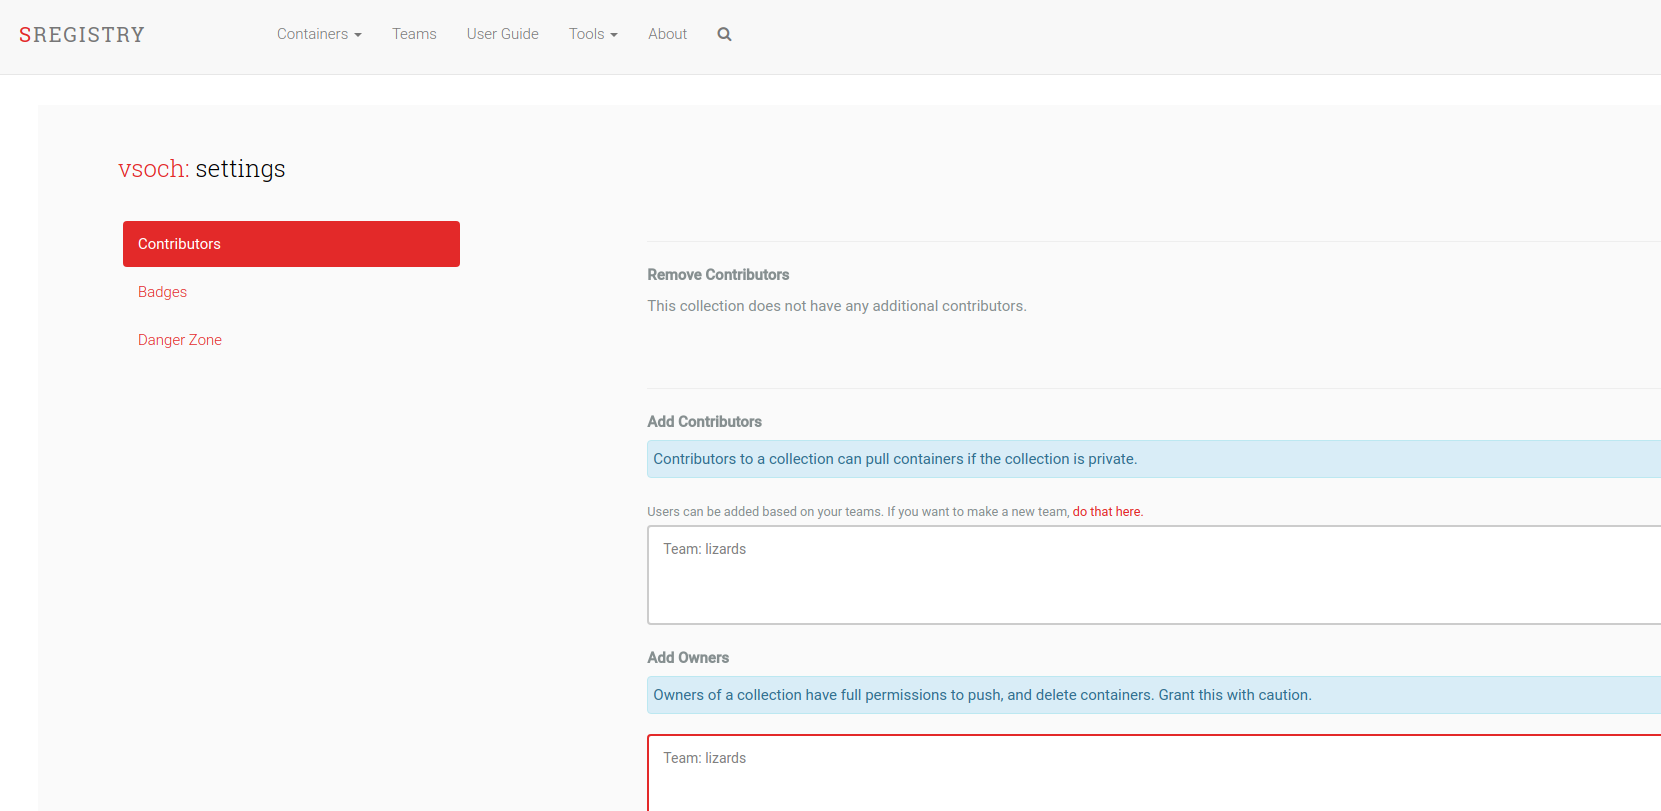
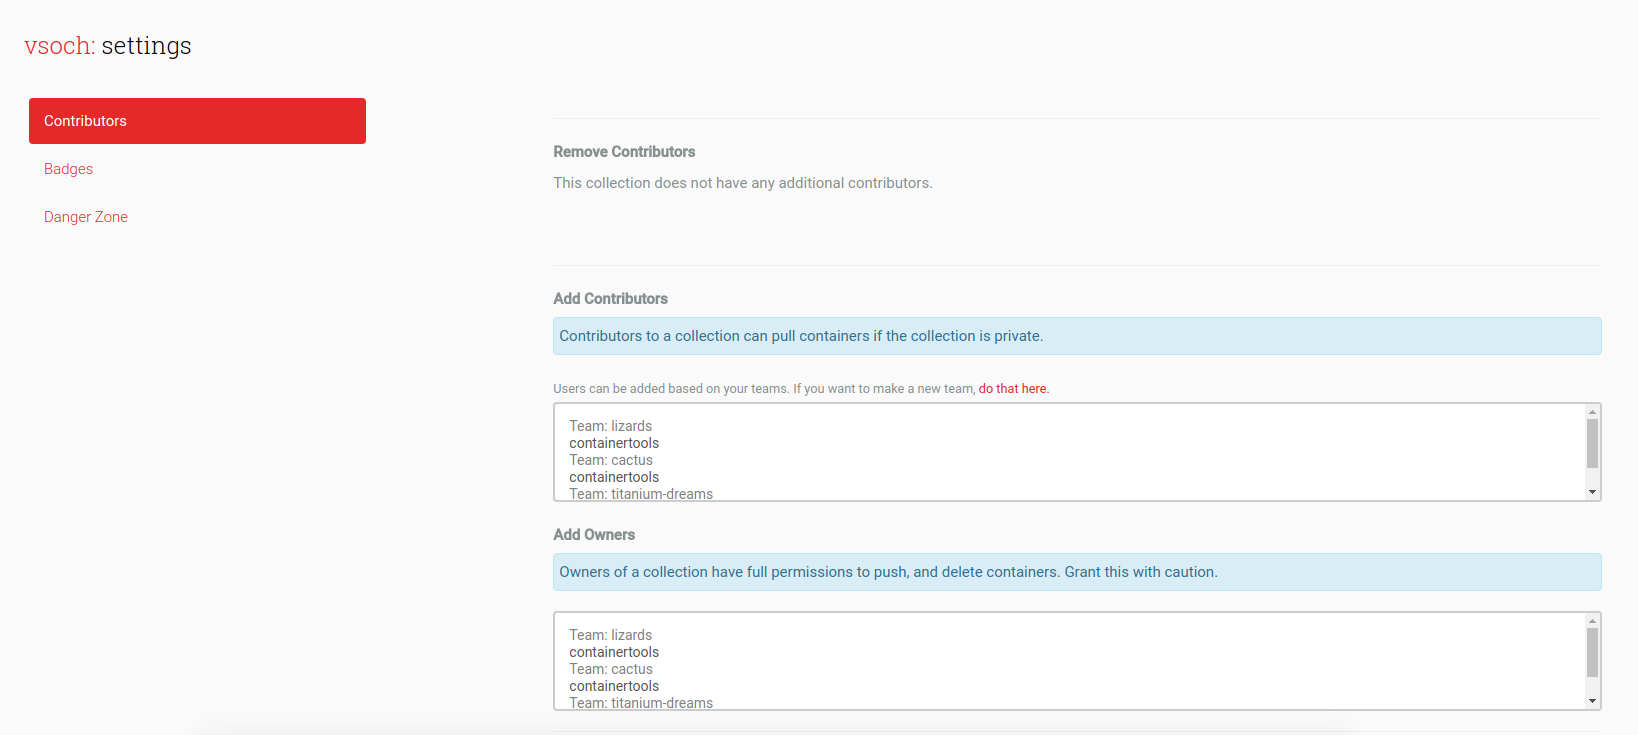
fixing up view to add/remove contributors and collections

diff --git a/shub/apps/main/templates/collections/_collection_settings_users.html b/shub/apps/main/templates/collections/_collection_settings_users.html
@@ -46,9 +46,7 @@
             <select id="remove_contributors" 
                     name="remove_contributors" 
                     class="form-control"
-                    style="margin-bottom:20px;" multiple>
-                
-                <option>--</option> 
+                    style="margin-bottom:20px;" multiple>                
                 {% for current in collection.contributors.all %}
                 <option value="{{ current.id }}">{{ current.username }}</option>
                 {% endfor %}
@@ -57,6 +55,24 @@
             {% else %}
             <p>This collection does not have any additional contributors.</p><br>
             {% endif %}
+
+            <hr>
+
+            <!-- Owners -->
+            {% if collection.owners.count > 1 %}
+            <label for="remove_owners">Remove Owners</label>
+            <select id="remove_owners" 
+                    name="remove_owners" 
+                    class="form-control"
+                    style="margin-bottom:20px;" multiple>
+                
+            {% for current in collection.owners.all %}
+            <option value="{{ current.id }}">{{ current.username }}</option>
+            {% endfor %}
+            </select>
+            {% else %}
+            <p>A collection must have at least one owner.</p><br>
+            {% endif %}{% endif %}
 
             <hr>
 
@@ -105,28 +121,7 @@
             {% endif %}
 
             <hr>
-
-                <!-- Owners -->
-                {% if collection.owners.count > 1 %}
-                   <label for="remove_owners">Remove Owners</label>
-                   <select id="remove_owners" 
-                           name="remove_owners" 
-                           class="form-control"
-                           style="margin-bottom:20px;" multiple>
-                
-                   <option>--</option> 
-                   {% for current in collection.owners.all %}
-                   <option value="{{ current.id }}">{{ current.username }}</option>
-                   {% endfor %}
-
-                   </select>
-                   {% else %}
-                   <p>A collection must have at least one owner.</p><br>
-                   {% endif %}
-            {% endif %}
-
-
-            <input class="btn btn-primary" type="submit" value="Save" style="margin-top:50px">
+            <input class="btn btn-primary" type="submit" value="Save" style="margin-top:15px">
 
         </form>
 

diff --git a/shub/apps/base/templates/base/navigation.html b/shub/apps/base/templates/base/navigation.html
@@ -9,10 +9,12 @@
             <!-- Containers -->
             <li class="dropdown">
               <a href="#" class="dropdown-toggle" data-toggle="dropdown" role="button" aria-haspopup="true" aria-expanded="false">
-              Containers
+              Collections
               <span class="caret"></span></a>
               <ul class="dropdown-menu">
-                <li><a href="{% url 'collections' %}">Collections</a></li>
+                <li><a href="{% url 'collections' %}">All Collections</a></li>
+                <li><a href="{% url 'my_collections' %}">My Collections</a></li>
+                <li role="separator" class="divider"></li>
                 <li><a href="{% url 'all_labels' %}">Labels</a></li>
                 <li><a href="{% url 'collection_stars' %}">Rankings</a></li>
                 <li><a href="{% url 'all_tags' %}">Topic Tags</a></li>
@@ -31,8 +33,8 @@
                 <li><a href="{% url 'containers_treemap' %}">Container Size Treemap</a></li>
                 <li role="separator" class="divider"></li>
                 <li><a href="https://singularityhub.github.io/sregistry-cli" target="_blank">Install Client</a></li>
+                <li><a href="https://singularityhub.github.io/" target="_blank">Community Tools</a></li>
                 <li><a href="https://github.com/singularityhub/singularityhub.github.io/issues/new" target="_blank">Get Help</a></li>
-               <li><a href="https://singularityhub.github.io/" target="_blank">Singularity Hub Tools</a></li>
               </ul>
             </li>
 
@@ -45,8 +47,12 @@
           <ul class="nav navbar-nav navbar-right" style="margin-right:20px">
             {% if request.user.is_authenticated %}
             <li class="dropdown">
-              <a href="#" class="dropdown-toggle" data-toggle="dropdown" role="button" aria-haspopup="true" aria-expanded="false">{{ request.user.username }}
- <span class="caret"></span></a>
+              <a href="#" class="dropdown-toggle" 
+                          data-toggle="dropdown" 
+                          role="button" 
+                          aria-haspopup="true" 
+                          aria-expanded="false">{{ request.user.username }}
+              <span class="caret"></span></a>
               <ul class="dropdown-menu">
                 <li><a href="{% url 'my_collections' %}">Containers</a></li>
                 <li role="separator" class="divider"></li>

diff --git a/shub/apps/main/templates/collections/all_collections.html b/shub/apps/main/templates/collections/all_collections.html
@@ -1,6 +1,7 @@
 {% extends "base/base.html" %}
 {% load crispy_forms_tags %}
 {% load staticfiles %}
+{% load gravatar %}
 
 {% block css %}
 <link rel="stylesheet" href="{% static "css/material-table.css"%}">
@@ -18,9 +19,13 @@ span.even { background: rgba(91, 192, 222, 0.32); }
     <div class="col-md-6">
         <div class="card" style="padding:20px">
             <div class="header" style="padding-bottom:10px">
-                   <h3 class="title">
-                   <img src="{% static 'img/robot_package.png' %}" width="160px" style="position:relative;top:-5px;border-radius:35px; padding-right:10px;margin-right:10px"/>
-                   {{ page_title }}</h3>
+                   <h3 class="title">{% if my_collections %}
+                   {% gravatar user.email 90 %} <span style="padding-top:20px;padding-left:25px">My Collections</span>
+                    {% else %}
+                   <img src="{% static 'img/robot_package.png' %}" 
+                        width="160px" 
+                        style="position:relative;top:-5px;border-radius:35px; padding-right:10px;margin-right:10px"/>Collections
+                   {% endif %}</h3>
             </div>
         </div>    
     </div>

diff --git a/shub/apps/main/views/collections.py b/shub/apps/main/views/collections.py
@@ -31,6 +31,7 @@ from django.shortcuts import (
     render, 
     redirect
 )
+from django.db.models import Q
 from django.http.response import Http404
 from django.contrib.auth.decorators import login_required
 from django.contrib import messages
@@ -85,51 +86,30 @@ def all_collections(request):
     # Get information about if they have storage, and repo access
     context = validate_credentials(user=request.user)
     context["collections"] = collections
-    context['page_title'] = "Container Collections"
 
     return render(request, 'collections/all_collections.html', context)
-
-
-def user_collections(request, uid):
-    '''this view will provide a list of user collections.
-
-       Parameters
-       ==========
-       uid: the user id to look up
-
-    '''
-    try:
-        user = User.objects.get(id=uid)
-    except:
-        messages.info(request,"This user does not exist.")
-        return redirect('collections')
-
-        
-    collections = Collection.objects.filter(owner=user)
-
-    # Get information about if they have storage, and repo access
-    context = validate_credentials(user=request.user)
-    context["collections"] = collections
-    context['page_title'] = "User %s Collections" %user.username
-    return render(request, 'collections/all_collections.html', context)
-
 
 
 @login_required
 def my_collections(request):
     '''this view will provide a list of collections for the logged in user
     '''
-    collections = Collection.objects.filter(owner=request.user)
+    collections = Collection.objects.filter(Q(owners=request.user) | 
+                                            Q(contributors=request.user))
 
     # Get information about if they have storage, and repo access
     context = validate_credentials(user=request.user)
     context["collections"] = collections
-    context["page_title"] = "My Container Collections"
+    context["my_collections"] = True
     return render(request, 'collections/all_collections.html', context)
 
 
-def view_collection(request,cid):
+def view_collection(request, cid):
     '''View container build details (all container builds for a repo)
+
+       Parameters
+       ==========
+       cid: the collection id
  
     '''
 
@@ -362,6 +342,41 @@ def make_collection_public(request,cid):
 # Contributors #################################################################
 ################################################################################
 
+def _edit_contributors(userids, collection, add_user=True, level="contributor"):
+    '''a general function to add a single (or list) of users to a collection,
+       given that each user exists.
+ 
+       Parameters
+       ==========
+       userids: a string list, or single string of a user id
+       add_user: if True, perform add on the collection. If False, remove.
+       level: one of contributor or owner.
+
+    '''
+    from shub.apps.users.utils import get_user
+
+    if not isinstance(userids, list):
+        userids = [userids]
+
+    for userid in userids:
+        user = get_user(userid)
+
+        if user is not None:
+
+            # Are we adding an owner or a contributor?
+            func = collection.owners
+            if level == "contributor":
+                func = collection.contributors
+
+            # Are we adding or removing?
+            if add_user is True:
+                func.add(user)
+            else:
+                func.remove(user)
+            collection.save()
+
+    return collection
+
 
 @login_required
 def edit_contributors(request, cid):
@@ -369,6 +384,7 @@ def edit_contributors(request, cid):
        for a collection. Only owners are allowed to do this, and can only
        see individuals in their teams.
     '''
+    
     collection = get_collection(cid)
 
     # Who are current contributors?
@@ -386,10 +402,24 @@ def edit_contributors(request, cid):
             remove_contribs = request.POST.get('remove_contributors')
             add_owners = request.POST.get('add_owners')
             remove_owners = request.POST.get('remove_owners')
-            res = {'remove_owners': remove_owners,
-                   'add_contribts': add_contribs,
-                   'remove_contribs': remove_contribs,
-                   'add_owners': add_owners }
-            pickle.dump(res, open('conributs.pkl', 'wb'))
+
+            if add_contribs is not None:
+                collection = _edit_contributors(userids=add_contribs, 
+                                                collection=collection)
+            if add_owners is not None:
+                collection = _edit_contributors(userids=add_owners, 
+                                                collection=collection,
+                                                level="owner")
+
+            if remove_contribs is not None:
+                collection = _edit_contributors(userids=remove_contribs, 
+                                                collection=collection,
+                                                add_user=False)
+
+            if remove_owners is not None:
+                collection = _edit_contributors(userids=remove_owners, 
+                                                collection=collection,
+                                                add_user=False,
+                                                level="owner")
 
     return collection_settings(request, cid)

diff --git a/shub/apps/users/utils.py b/shub/apps/users/utils.py
@@ -35,7 +35,7 @@ def get_user(uid):
     try:
         user = User.objects.get(**keyargs)
     except User.DoesNotExist:
-        raise Http404
+        user = None
     else:
         return user
 

diff --git a/shub/apps/main/views/__init__.py b/shub/apps/main/views/__init__.py
@@ -43,7 +43,6 @@ from .collections import (
     make_collection_private,
     make_collection_public,
     my_collections,
-    user_collections,
     view_collection
 )
 

diff --git a/docs/pages/interface.md b/docs/pages/interface.md
@@ -6,10 +6,34 @@ permalink: /interface
 toc: false
 ---
 
-## Settings
-The most important control panel for your collections is the Settings page. You can access it via the "Settings" button at the top of the collection view.
+# Interfaces
 
-### Badges
+### Teams
+Singularity Registry allows registry staff (and if the administrators allow it) authenticated users to create teams, or groups of users that want to colleaborate on container collections together.
+
+![teams.png](assets/img/teams.png)
+
+If you are allowed to create and manage teams (see the setup page section about [teams](/sregistry/setup#teams) for information about this) the team permission level determines how others are added to the team.  If a team is **open**, then anyone can join. If it's **invite** only, then you need to generate an invitation. To do this, you can navigate to your Team page, and click the button to "Invite User":
+
+![team-invite.png](assets/img/team-invite.png)
+
+The interface will give you a link to send to your colleague to join him or her to the team. Once used, it will expire.
+
+![team-invite-link.png](assets/img/team-invite-link.png)
+
+Membership in teams is important because when you add another user as a collaborator to one of your collections (either an owner ot member) they must be part of one of your teams.
+
+
+### Collections 
+The most important control panel for your collections is the Settings page. You can access it via the "Settings" button at the top of the collection view. The most likely action you will want to do is add other users from your teams (as described above). You do this on each Collection settings page:
+
+![team-settings.png](assets/img/team-settings.png)
+
+For example, if my lab has a set of users on sregistry and we intend to build images together, we would make a team for our lab, and then easily find one another to manage access to images.
+
+
+
+## Badges
 Recently added, you can get a badge to link to your collection
 
 ![assets/img/badges.png](assets/img/badges.png)

diff --git a/docs/pages/setup.md b/docs/pages/setup.md
@@ -71,11 +71,11 @@ The default setting is "invite." Teams are important because when you add indivi
 For example, if my lab has a set of users on sregistry and we intend to build images together, we would make a team for our lab, and then easily find one another to manage access to images.
 
 
-## Create Accounts
+### Create Accounts
 To create your admin account, the first thing you need to do (in the web interface) is click Login on the top right. You should see the social account options that you configured in the [install](/sregistry/install) step. You can now log in with your social account of choice. This will create a user account for yourself that you can use to manage the application, and when you are logged in you should see your username in the top right. It usually corresponds with the one from your social account.
 
 
-## The Application Manager
+### The Application Manager
 At this point, you've started the application, and created a user with your social auth. Your username is in the top right, and it's usually the same as your social account. Keep this in mind because you will need it when you shell into the image to make yourself a superuser. Let's first shell inside:
 
 ```

diff --git a/docs/pages/plugins.md b/docs/pages/plugins.md
@@ -6,6 +6,8 @@ permalink: /plugins
 toc: false
 ---
 
+# Plugins
+
 Singularity Registry supports added functionality through plugins. Plugins allow complex features,
 such as container scanning, LDAP authentication, to be added without complicating the core code of
 sregistry.
